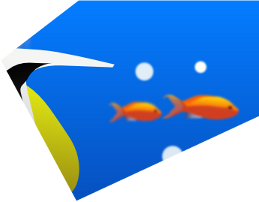
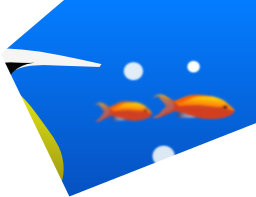
Changes: Redrawn fish board

diff --git a/qml/KidPuzzleSymbian/BoardFish.qml b/qml/KidPuzzleSymbian/BoardFish.qml
@@ -6,27 +6,27 @@ Board {
 
     Bit {
         source: "fish_1.png"
-        dockX: UI.leftMargin + 30; dockY:0; boardX: UI.leftMargin + 97; boardY: 0; dockW: 37; dockH: 55
+        dockX: UI.leftMargin + 30; dockY:0; boardX: UI.leftMargin + 99; boardY: 0; dockW: 30; dockH: 55
     }
     Bit {
         source: "fish_2.png"
-        dockX: UI.leftMargin + 2; dockY: 60; boardX: UI.leftMargin + 343; boardY: 0; dockW: 90; dockH: 55
+        dockX: UI.leftMargin + 2; dockY: 60; boardX: UI.leftMargin + 384; boardY: 0; dockW: 71; dockH: 55
     }
     Bit {
         source: "fish_3.png"
-        dockX: UI.leftMargin + 2; dockY: 120; boardX: UI.leftMargin + 97; boardY: 235; dockW: 90; dockH: 55
+        dockX: UI.leftMargin + 2; dockY: 120; boardX: UI.leftMargin + 99; boardY: UI.screenHeight - 128; dockW: 90; dockH: 27
     }
     Bit {
         source: "fish_4.png"
-        dockX: UI.leftMargin + 2; dockY: 180; boardX: UI.leftMargin + 97; boardY: 0; dockW: 90; dockH: 55
+        dockX: UI.leftMargin + 2; dockY: 180; boardX: UI.leftMargin + 99; boardY: 0; dockW: 90; dockH: 42
     }
     Bit {
         source: "fish_5.png"
-        dockX: UI.leftMargin + 15; dockY: 240; boardX: UI.leftMargin + 417; boardY: 117; dockW: 52; dockH: 55
+        dockX: UI.leftMargin + 15; dockY: 240; boardX: UI.leftMargin + 453; boardY: UI.screenHeight - 237; dockW: 43; dockH: 55
     }
     Bit {
         source: "fish_6.png"
-        dockX: UI.leftMargin + 2; dockY: 300; boardX: UI.leftMargin + 156; boardY: 60; dockW: 90; dockH: 55
+        dockX: UI.leftMargin + 2; dockY: 300; boardX: UI.leftMargin + 174; boardY: UI.screenHeight - 307; dockW: 90; dockH: 55
     }
 }
 

diff --git a/qml/KidPuzzleSymbian/MainSelection.qml b/qml/KidPuzzleSymbian/MainSelection.qml
@@ -47,14 +47,6 @@ Image {
             thumbnail: "redfish_thumbnail.png"
             boardEnabled: true
         }
-        /* FULLVERSION
-        ListElement {
-            tileComponent: "BuyFullVersion.qml"
-            thumbnail: "buy_full_version_thumbnail.png"
-            boardEnabled: true
-            buyTile: true
-        }
-        */
         ListElement {
             tileComponent: "BoardSimplePuppy.qml"
             thumbnail: "simple_puppy_thumbnail.png"
@@ -93,6 +85,11 @@ Image {
         ListElement {
             tileComponent: "BoardBBFish.qml"
             thumbnail: "bbfish_thumbnail.png"
+            boardEnabled: true
+        }
+        ListElement {
+            tileComponent: "BoardButterfly.qml"
+            thumbnail: "butterfly_thumbnail.png"
             boardEnabled: true
         }
     }
